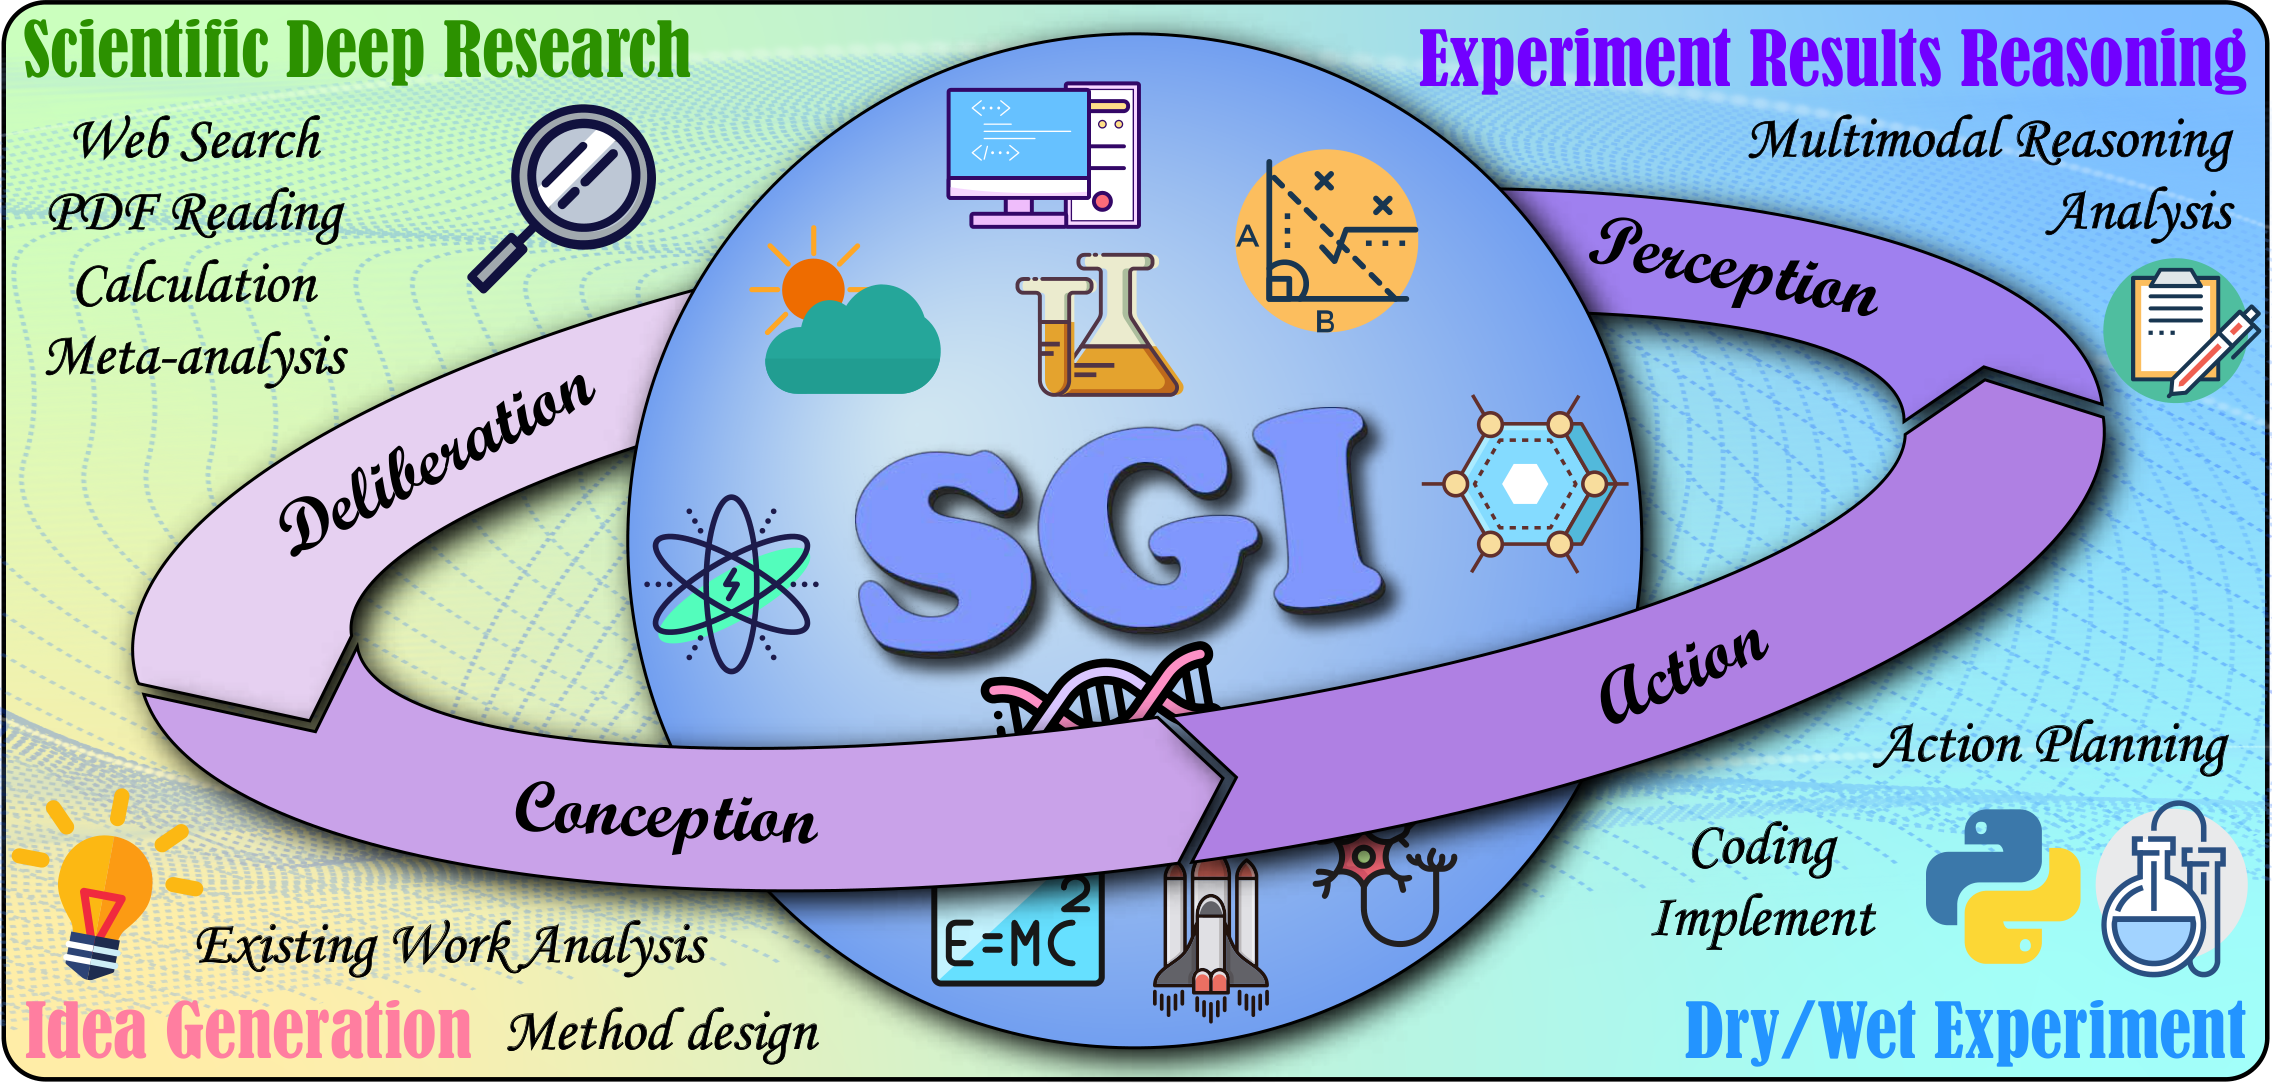
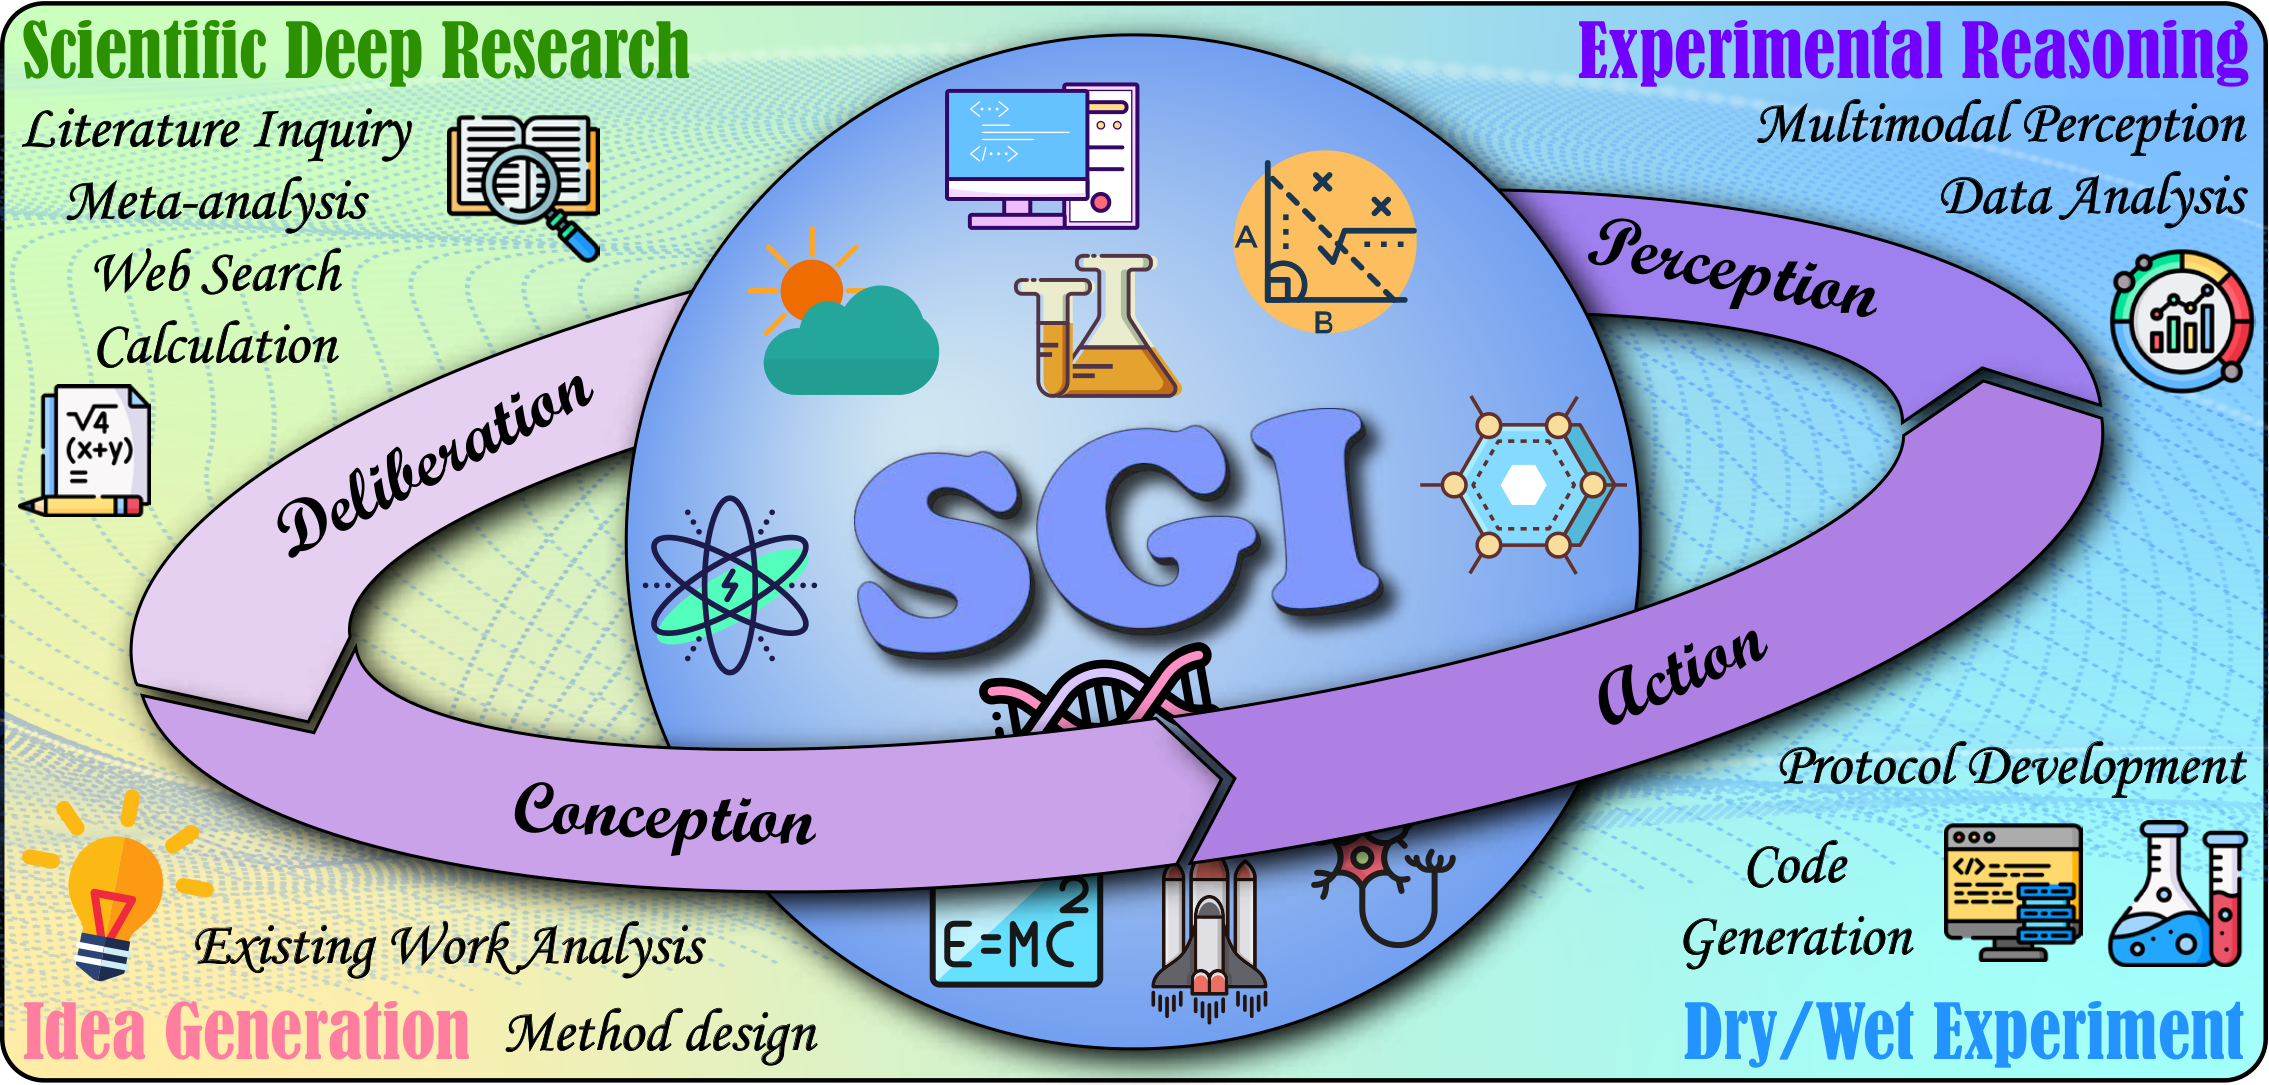
update

diff --git a/README.md b/README.md
@@ -1,7 +1,5 @@
 <div align="center">
-
-# Probing Scientific General Intelligence of LLMs with Scientist-Aligned Workflows
-
+  <h1>Probing Scientific General Intelligence of LLMs with Scientist-Aligned Workflows</h1>
 </div>
 
 <!-- <p align="center">
@@ -19,7 +17,7 @@
 [![GitHub](https://img.shields.io/badge/GitHub-000000?logo=github&logoColor=white)](https://github.com/InternScience/SGI-Bench)&#160;
 <!-- <a href="https://arxiv.org/abs/xxxx.xxxxx" target="_blank"><img src="https://img.shields.io/badge/arXiv-b5212f.svg?logo=arxiv" height="21px"></a> -->
 
-Welcome to the official repository for the SGI-Bench!
+Welcome to the official repository for the SGI-Bench! 👏
 
 </div>
 
@@ -32,7 +30,7 @@ Scientist-aligned benchmark for evaluating Scientific General Intelligence (SGI)
 ---
 
 ## 🔬 What is Scientific General Intelligence (SGI)?
-SGI denotes an AI system that can autonomously navigate the full, iterative cycle of scientific inquiry—Deliberation, Conception, Action, and Perception—with the versatility and proficiency of a human scientist. SGI‑Bench operationalizes this definition via four scientist‑aligned task families: deep research, idea generation, AI‑assisted experiments (dry/wet), and multimodal experimental reasoning.
+SGI denotes an AI system that can autonomously navigate the full, iterative cycle of scientific inquiry—Deliberation, Conception, Action, and Perception—with the versatility and proficiency of a human scientist. SGI‑Bench operationalizes this definition via four scientist‑aligned task families: scientific deep research, idea generation, dry/wet experiments, and multimodal experimental reasoning.
 
 ---
 
@@ -42,10 +40,10 @@ SGI denotes an AI system that can autonomously navigate the full, iterative cycl
   <img src="assets/pipeline.png" alt="SGI-Bench Pipeline" width="850">
 </p>
 
-- Deliberation (Deep Research): Multi‑hop retrieval, synthesis, and meta‑analysis style reasoning.
-- Conception (Idea Generation): Structured ideation and multi‑dimensional comparative evaluation.
-- Action (Dry/Wet Experiment): Code/simulation and lab protocol generation and verification.
-- Perception (Multimodal Reasoning): Process/observation/simulation/experiment/visualization image reasoning.
+- **Deliberation (Scientific Deep Research)**: Multi‑hop retrieval, synthesis, and meta‑analysis style reasoning.
+- **Conception (Idea Generation)**: Structured ideation and multi‑dimensional comparative evaluation.
+- **Action (Dry/Wet Experiment)**: Code generation, lab protocol development and verification.
+- **Perception (Experimental Reasoning)**: Process/observation/simulation/experiment/visualization image reasoning.
 
 Grounded in the Practical Inquiry Model (PIM), SGI‑Bench treats science as an iterative cycle linking deliberation, conception, action and perception. Under this lens, SGI captures the capacity to integrate knowledge retrieval, idea formation, action execution, and interpretation into a unified loop of inquiry.
 
@@ -57,10 +55,10 @@ Grounded in the Practical Inquiry Model (PIM), SGI‑Bench treats science as an 
   <img src="assets/subjects.png" alt="Scientist-Aligned Data Construction" width="850">
 </p>
 
-- Raw Corpus: Expert‑curated texts/images across 10 domains, inspired by Science’s 125 Big Questions.
-- Question Construction: 100+ graduate/PhD annotators with continuous expert‑in‑the‑loop review.
-- Data Cleaning: Rules + model checks + expert QA to ensure executability and unique answers.
-- Difficulty Filtering: Removes samples solved by >50% strong LLMs to maintain high challenge.
+- **Raw Corpus**: Expert‑curated texts/images across 10 domains, inspired by Science’s 125 Big Questions.
+- **Question Construction**: 100+ Master's and PhD holders with continuous expert‑in‑the‑loop review.
+- **Data Cleaning**: Rules + model checks + expert QA to ensure executability and unique answers.
+- **Difficulty Filtering**: Removes samples solved by >50% strong LLMs to maintain high challenge.
 
 Result: High‑fidelity, scientist‑aligned tasks that are authentic, challenging, and broadly representative.
 
@@ -72,10 +70,10 @@ Result: High‑fidelity, scientist‑aligned tasks that are authentic, challengi
   <img src="assets/evaluation-framework.png" alt="Agentic Evaluation Framework" width="850">
 </p>
 
-- Four Stages: Question Selection → Metric Customization → Predict & Eval → Report Generation
-- Tool Pool: Web search, PDF parser, Python interpreter, file reader, metric functions
-- Task Metrics: EM/SLA; Implementation Similarity; PassAll@k/SER; MCA/RV
-- Customizable: Add scientist‑aligned metrics (e.g., rigor, feasibility) on demand
+- **Four Stages**: Question Selection → Metric Customization → Predict & Eval → Report Generation
+- **Tool Pool**: Web search, PDF parser, Python interpreter, file reader, metric functions
+- **Task Metrics**: EM/SLA; Implementation Similarity; PassAll@k/SER; MCA/RV
+- **Customizable**: Add scientist‑aligned metrics (e.g., rigor, feasibility) on demand
 
 This agent‑based stack formalizes scoring into traceable stages, improves reproducibility, mitigates evaluator–model coupling bias, and yields actionable, scientist‑aligned insights.
 
@@ -87,12 +85,12 @@ This agent‑based stack formalizes scoring into traceable stages, improves repr
   <img src="assets/grpo_reward_curves.png" alt="TTRL Training Dynamics" width="850">
 </p>
 
-- Objective: Address no‑ground‑truth idea generation by optimizing novelty at test time with online retrieval as a moving baseline.
-- Reward Design:  
+- **Objective**: Address no‑ground‑truth idea generation by optimizing novelty at test time with online retrieval as a moving baseline.
+- **Reward Design**:  
   R = R_format + R_novelty  
   Enforce XML format and strict structure (e.g., &lt;think&gt;, &lt;answer&gt;); reward embedding dissimilarity from retrieved works, gated by thresholds.
-- Setup: GRPO on Qwen3‑8B (ms‑swift), G=8, high temperature, bfloat16, online retrieval n=4.
-- Dynamics: Format reward saturates quickly; novelty steadily increases. Average novelty improved from 49.36 → 62.06 without labels.
+- **Setup**: GRPO on Qwen3‑8B (ms‑swift), G=8, high temperature, bfloat16, online retrieval n=4.
+- **Dynamics**: Format reward saturates quickly; novelty steadily increases. Average novelty improved from 49.36 → 62.06 without labels.
 
 TTRL converts open‑ended ideation into measurable test‑time optimization and extends to multi‑objective rewards (rigor, feasibility, safety, cost).
 
